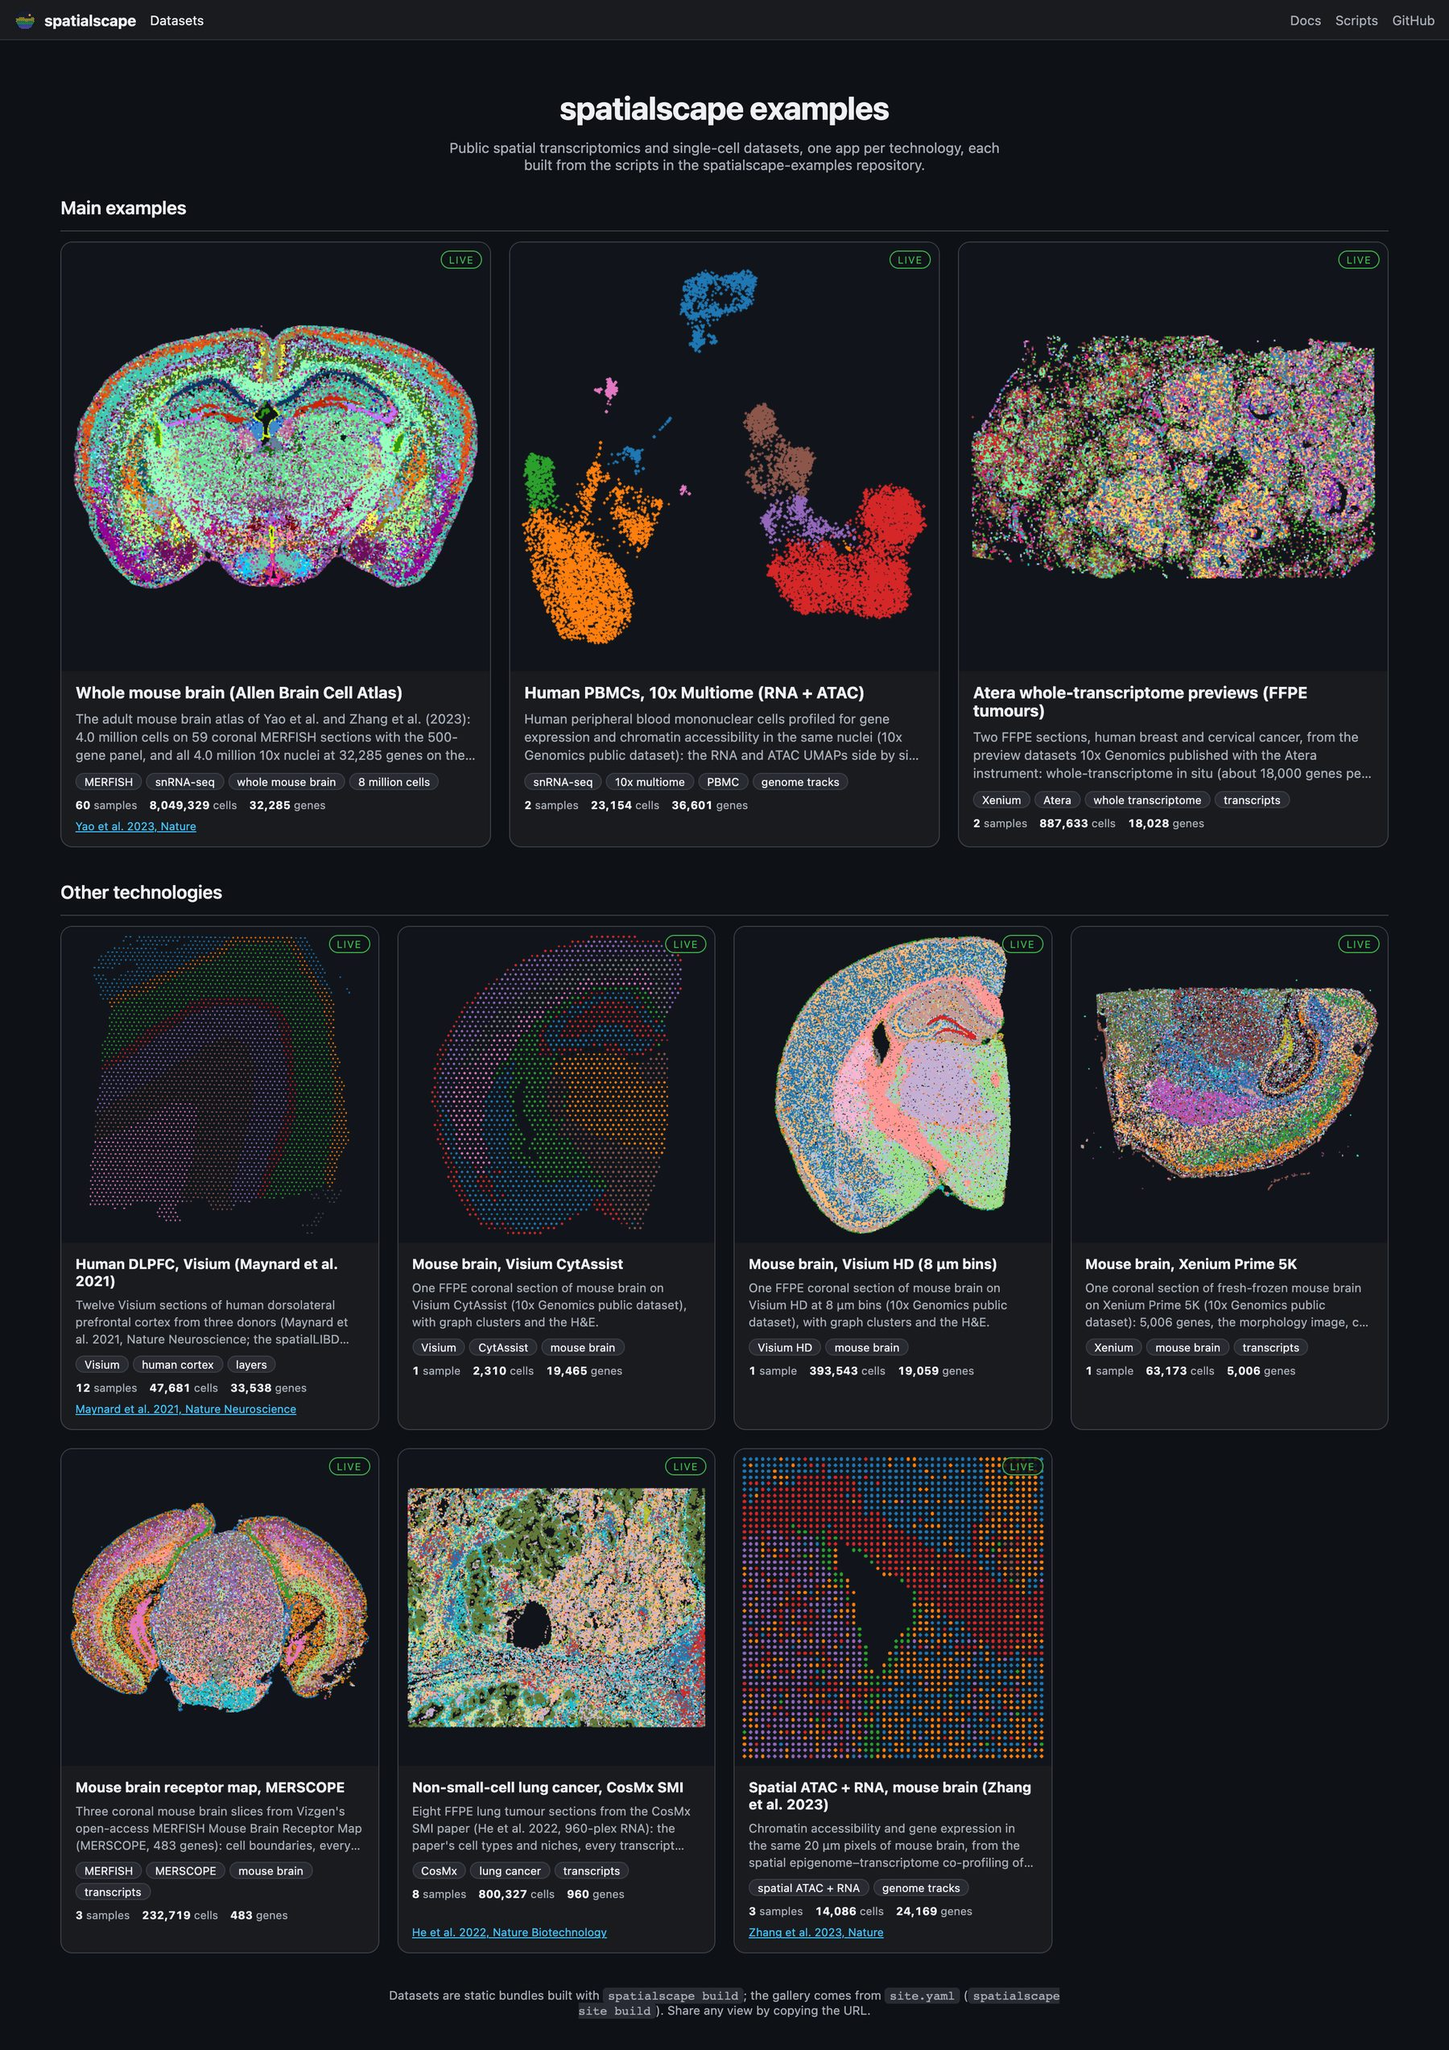
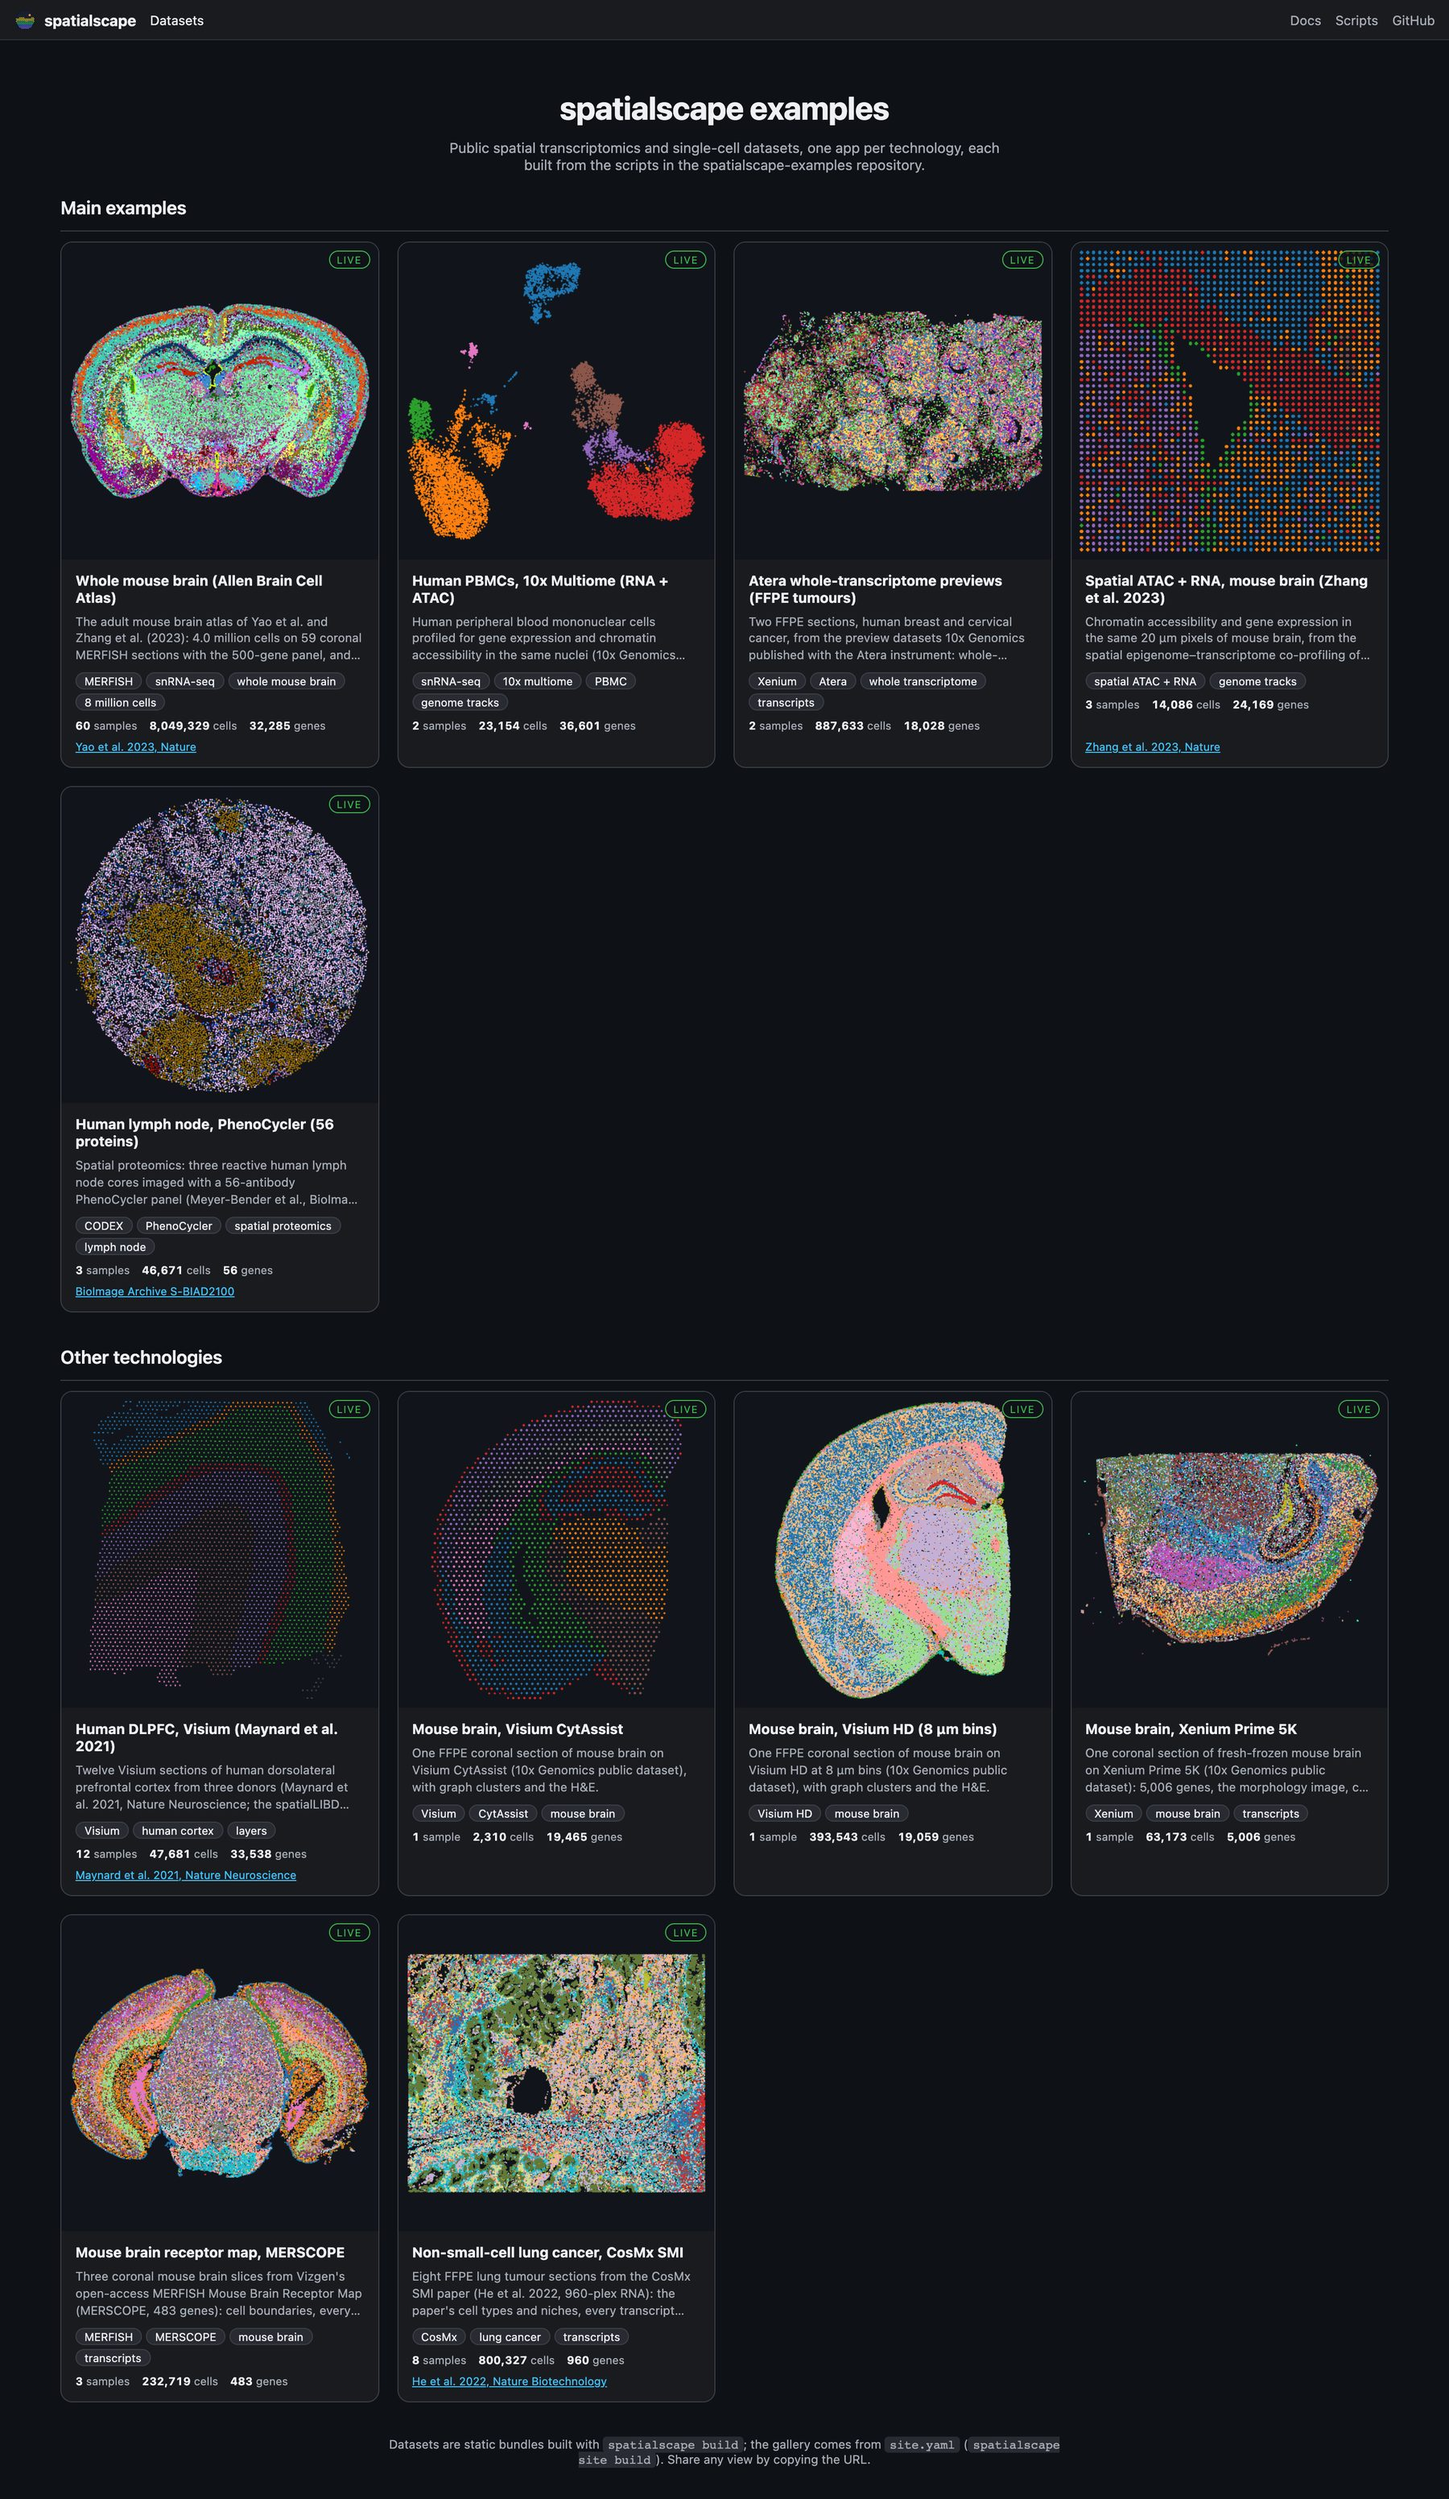
Eleven public examples: the PhenoCycler lymph node, and five main examples
The built-in gallery (app/public/datasets.json) is the live datasets.json again: eleven cards, with spatial ATAC + RNA
and the new spatial proteomics example among the main ones. docs/guide/examples.md gains the lymph node row and
counts eleven, docs/index.md names PhenoCycler among the technologies, and the gallery picture is the live page.

diff --git a/docs/guide/examples.md b/docs/guide/examples.md
@@ -1,6 +1,6 @@
 # Reproduce the examples
 
-The ten public example apps are live in the [examples gallery](https://d2lbhik7smmaaj.cloudfront.net). They are built from
+The eleven public example apps are live in the [examples gallery](https://d2lbhik7smmaaj.cloudfront.net). They are built from
 <https://github.com/MicTott/spatialscape-examples>: one folder per dataset
 with the script that fetches the published files, the script (when one is needed) that turns them into an AnnData,
 the `dataset.yaml` that describes the app, and a README with the source, the licence and what each step costs.
@@ -15,6 +15,7 @@ Nothing in an app is edited by hand; every one rebuilds from those files, on a l
 | `atera` | Atera whole-transcriptome in situ: morphology, shapes, transcripts | 2 sections, 888k cells, 1.66 billion transcripts | 10x Genomics previews | [open](https://d2lbhik7smmaaj.cloudfront.net/?d=atera) |
 | `merscope-mouse-brain` | MERSCOPE: boundaries, transcripts, mosaics | 3 slices, 233k cells | Vizgen | [open](https://d2lbhik7smmaaj.cloudfront.net/?d=merscope-mouse-brain) |
 | `cosmx-nsclc` | CosMx SMI: cell types and niches, boundaries, transcripts, composites | 8 sections, 800k cells | NanoString (He et al. 2022) | [open](https://d2lbhik7smmaaj.cloudfront.net/?d=cosmx-nsclc) |
+| `phenocycler-lymph-node` | PhenoCycler spatial proteomics: 56-channel image, cell outlines, gated cell types | 3 cores, 46,671 cells, 56 proteins | BioImage Archive S-BIAD2100 | [open](https://d2lbhik7smmaaj.cloudfront.net/?d=phenocycler-lymph-node) |
 | `spatial-atac-rna-mouse-brain` | spatial ATAC + RNA: RNA on 20 µm pixels, ATAC tracks per cluster | 3 sections, 14k pixels | GEO GSE205055 | [open](https://d2lbhik7smmaaj.cloudfront.net/?d=spatial-atac-rna-mouse-brain) |
 | `pbmc-multiome` | 10x Multiome: RNA and ATAC UMAPs of the same nuclei, ATAC tracks per cell type | 11,577 nuclei | 10x Genomics | [open](https://d2lbhik7smmaaj.cloudfront.net/?d=pbmc-multiome) |
 | `abc-atlas` | whole mouse brain: 59 MERFISH sections and all 10x nuclei on Allen's UMAP | 4.0 M cells + 4.0 M nuclei | Allen Brain Cell Atlas | [open](https://d2lbhik7smmaaj.cloudfront.net/?d=abc-atlas) |

diff --git a/docs/index.md b/docs/index.md
@@ -62,7 +62,7 @@ features:
 </div>
 </div>
 
-These three are among the ten in the **[examples gallery](https://d2lbhik7smmaaj.cloudfront.net)**, one public dataset per technology: Visium, Visium CytAssist, Visium HD, Xenium, MERSCOPE, CosMx, Atera, spatial ATAC + RNA, a 10x multiome, and the Allen whole mouse brain. Nothing to install, and each rebuilds from the published files with the scripts in [Reproduce the examples](/guide/examples).
+These three are among the eleven in the **[examples gallery](https://d2lbhik7smmaaj.cloudfront.net)**, one public dataset per technology: Visium, Visium CytAssist, Visium HD, Xenium, MERSCOPE, CosMx, Atera, PhenoCycler spatial proteomics, spatial ATAC + RNA, a 10x multiome, and the Allen whole mouse brain. Nothing to install, and each rebuilds from the published files with the scripts in [Reproduce the examples](/guide/examples).
 
 ## In three commands
 
